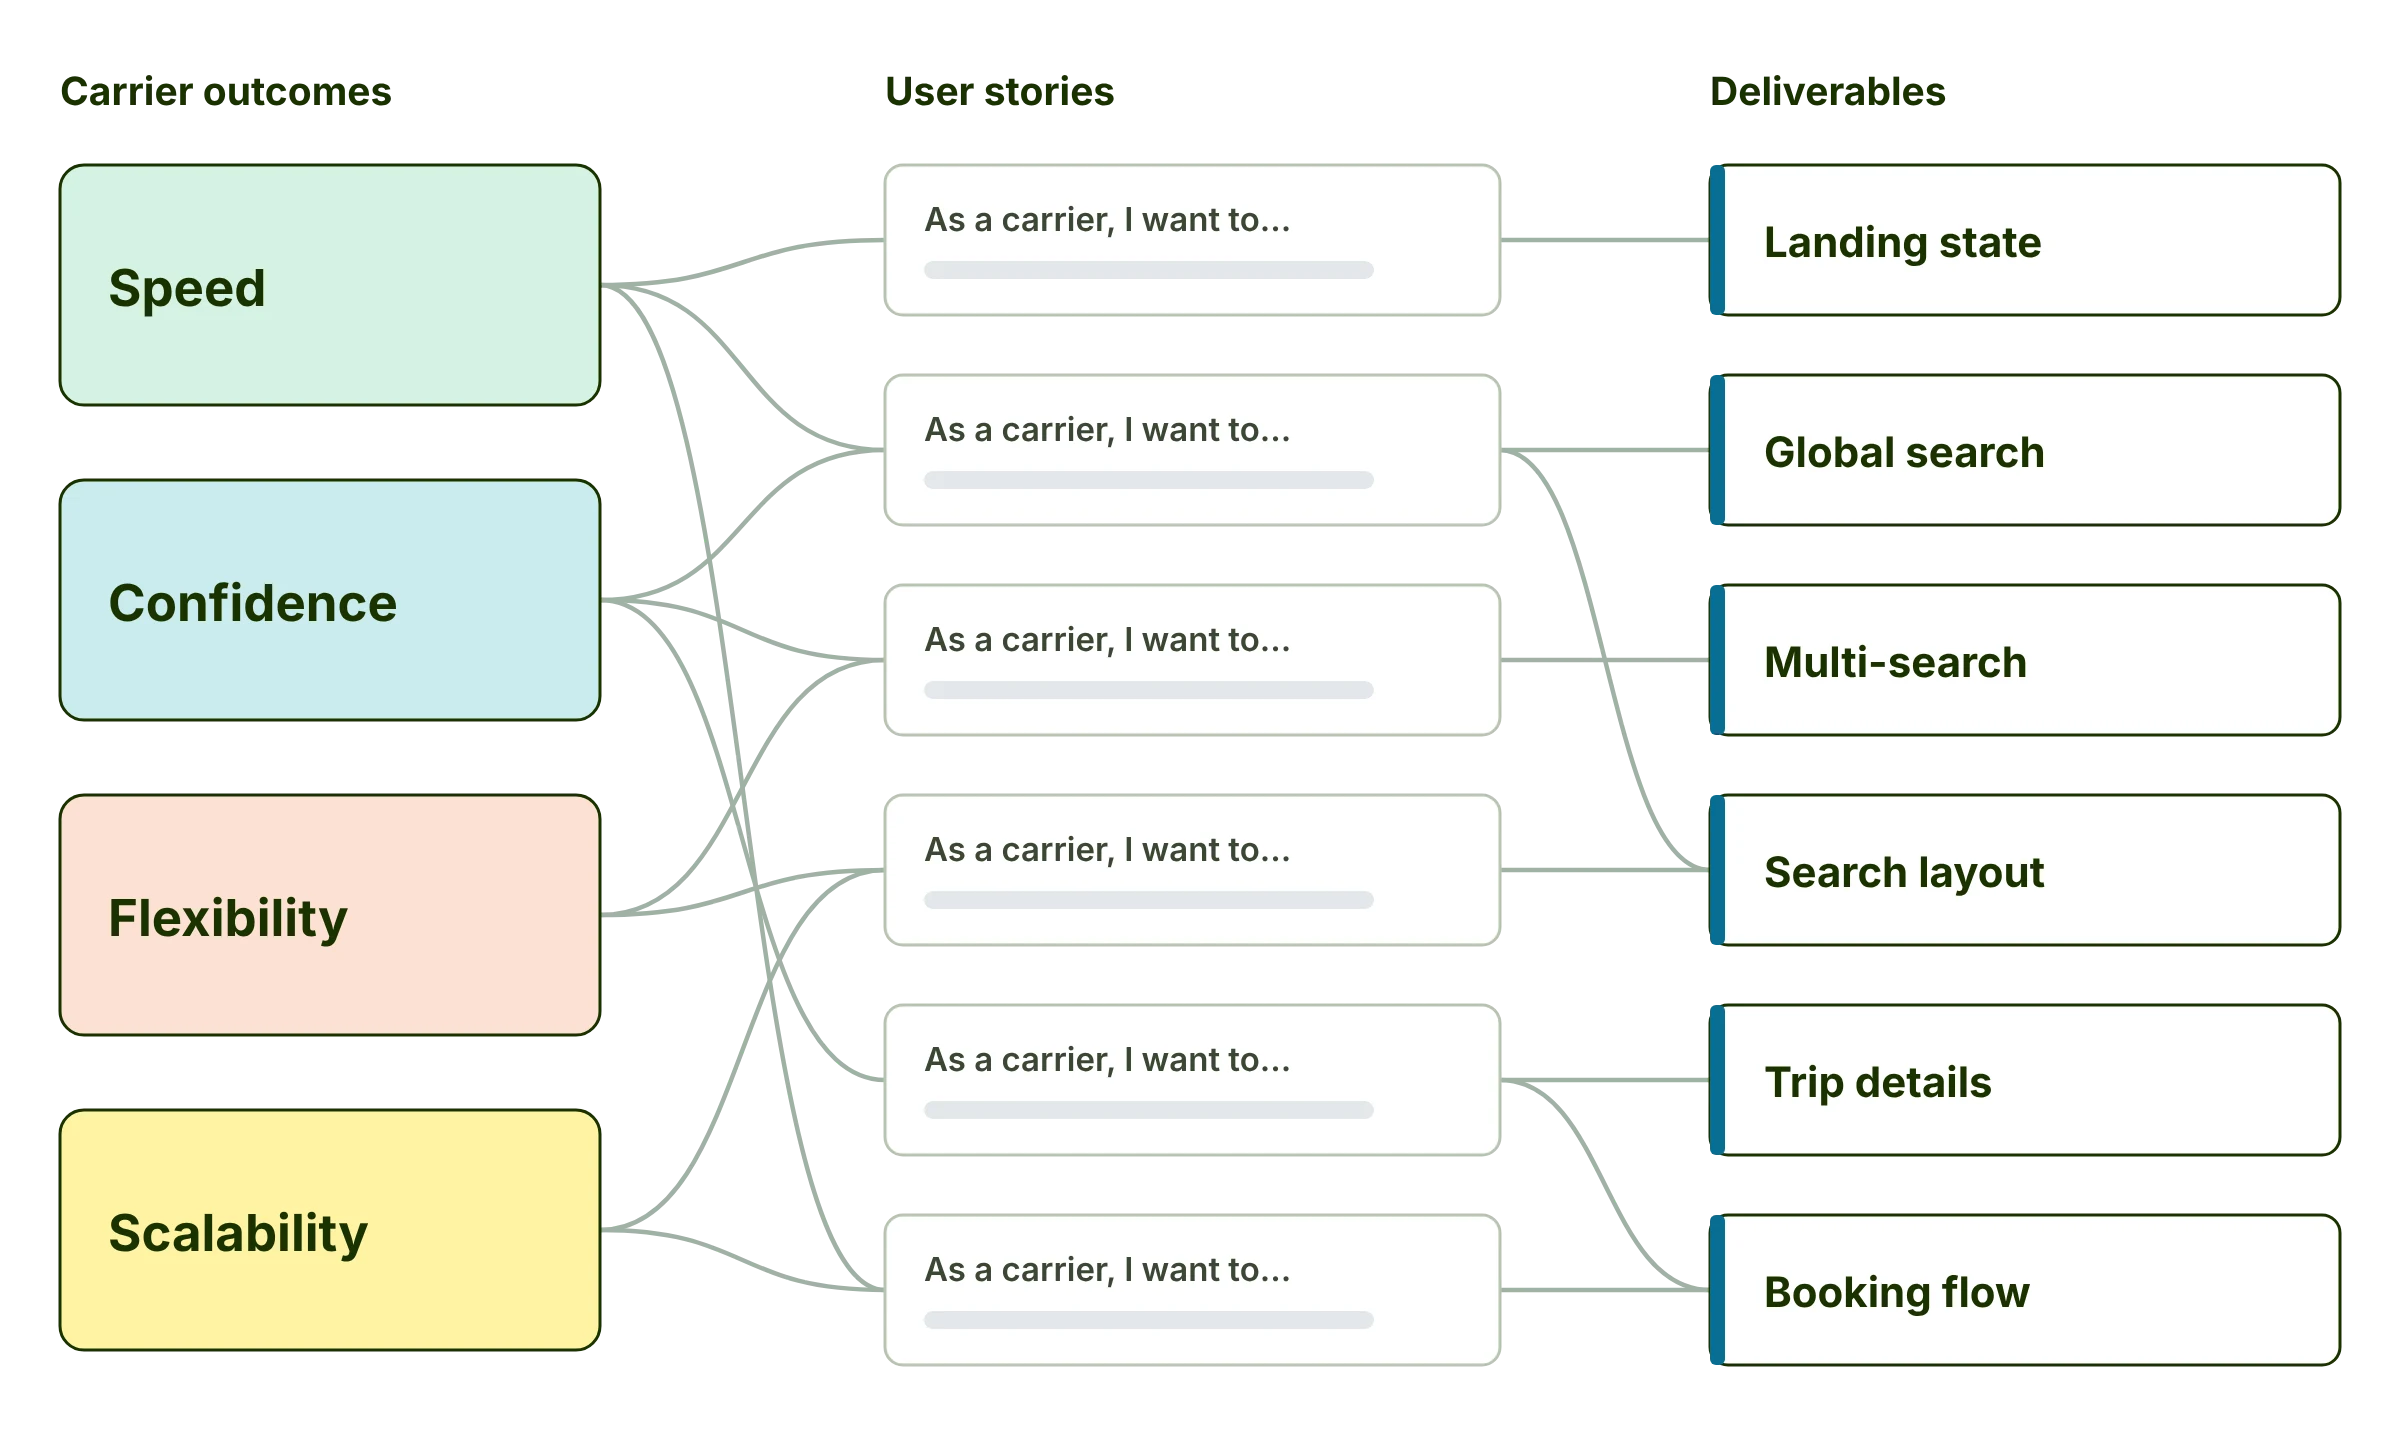
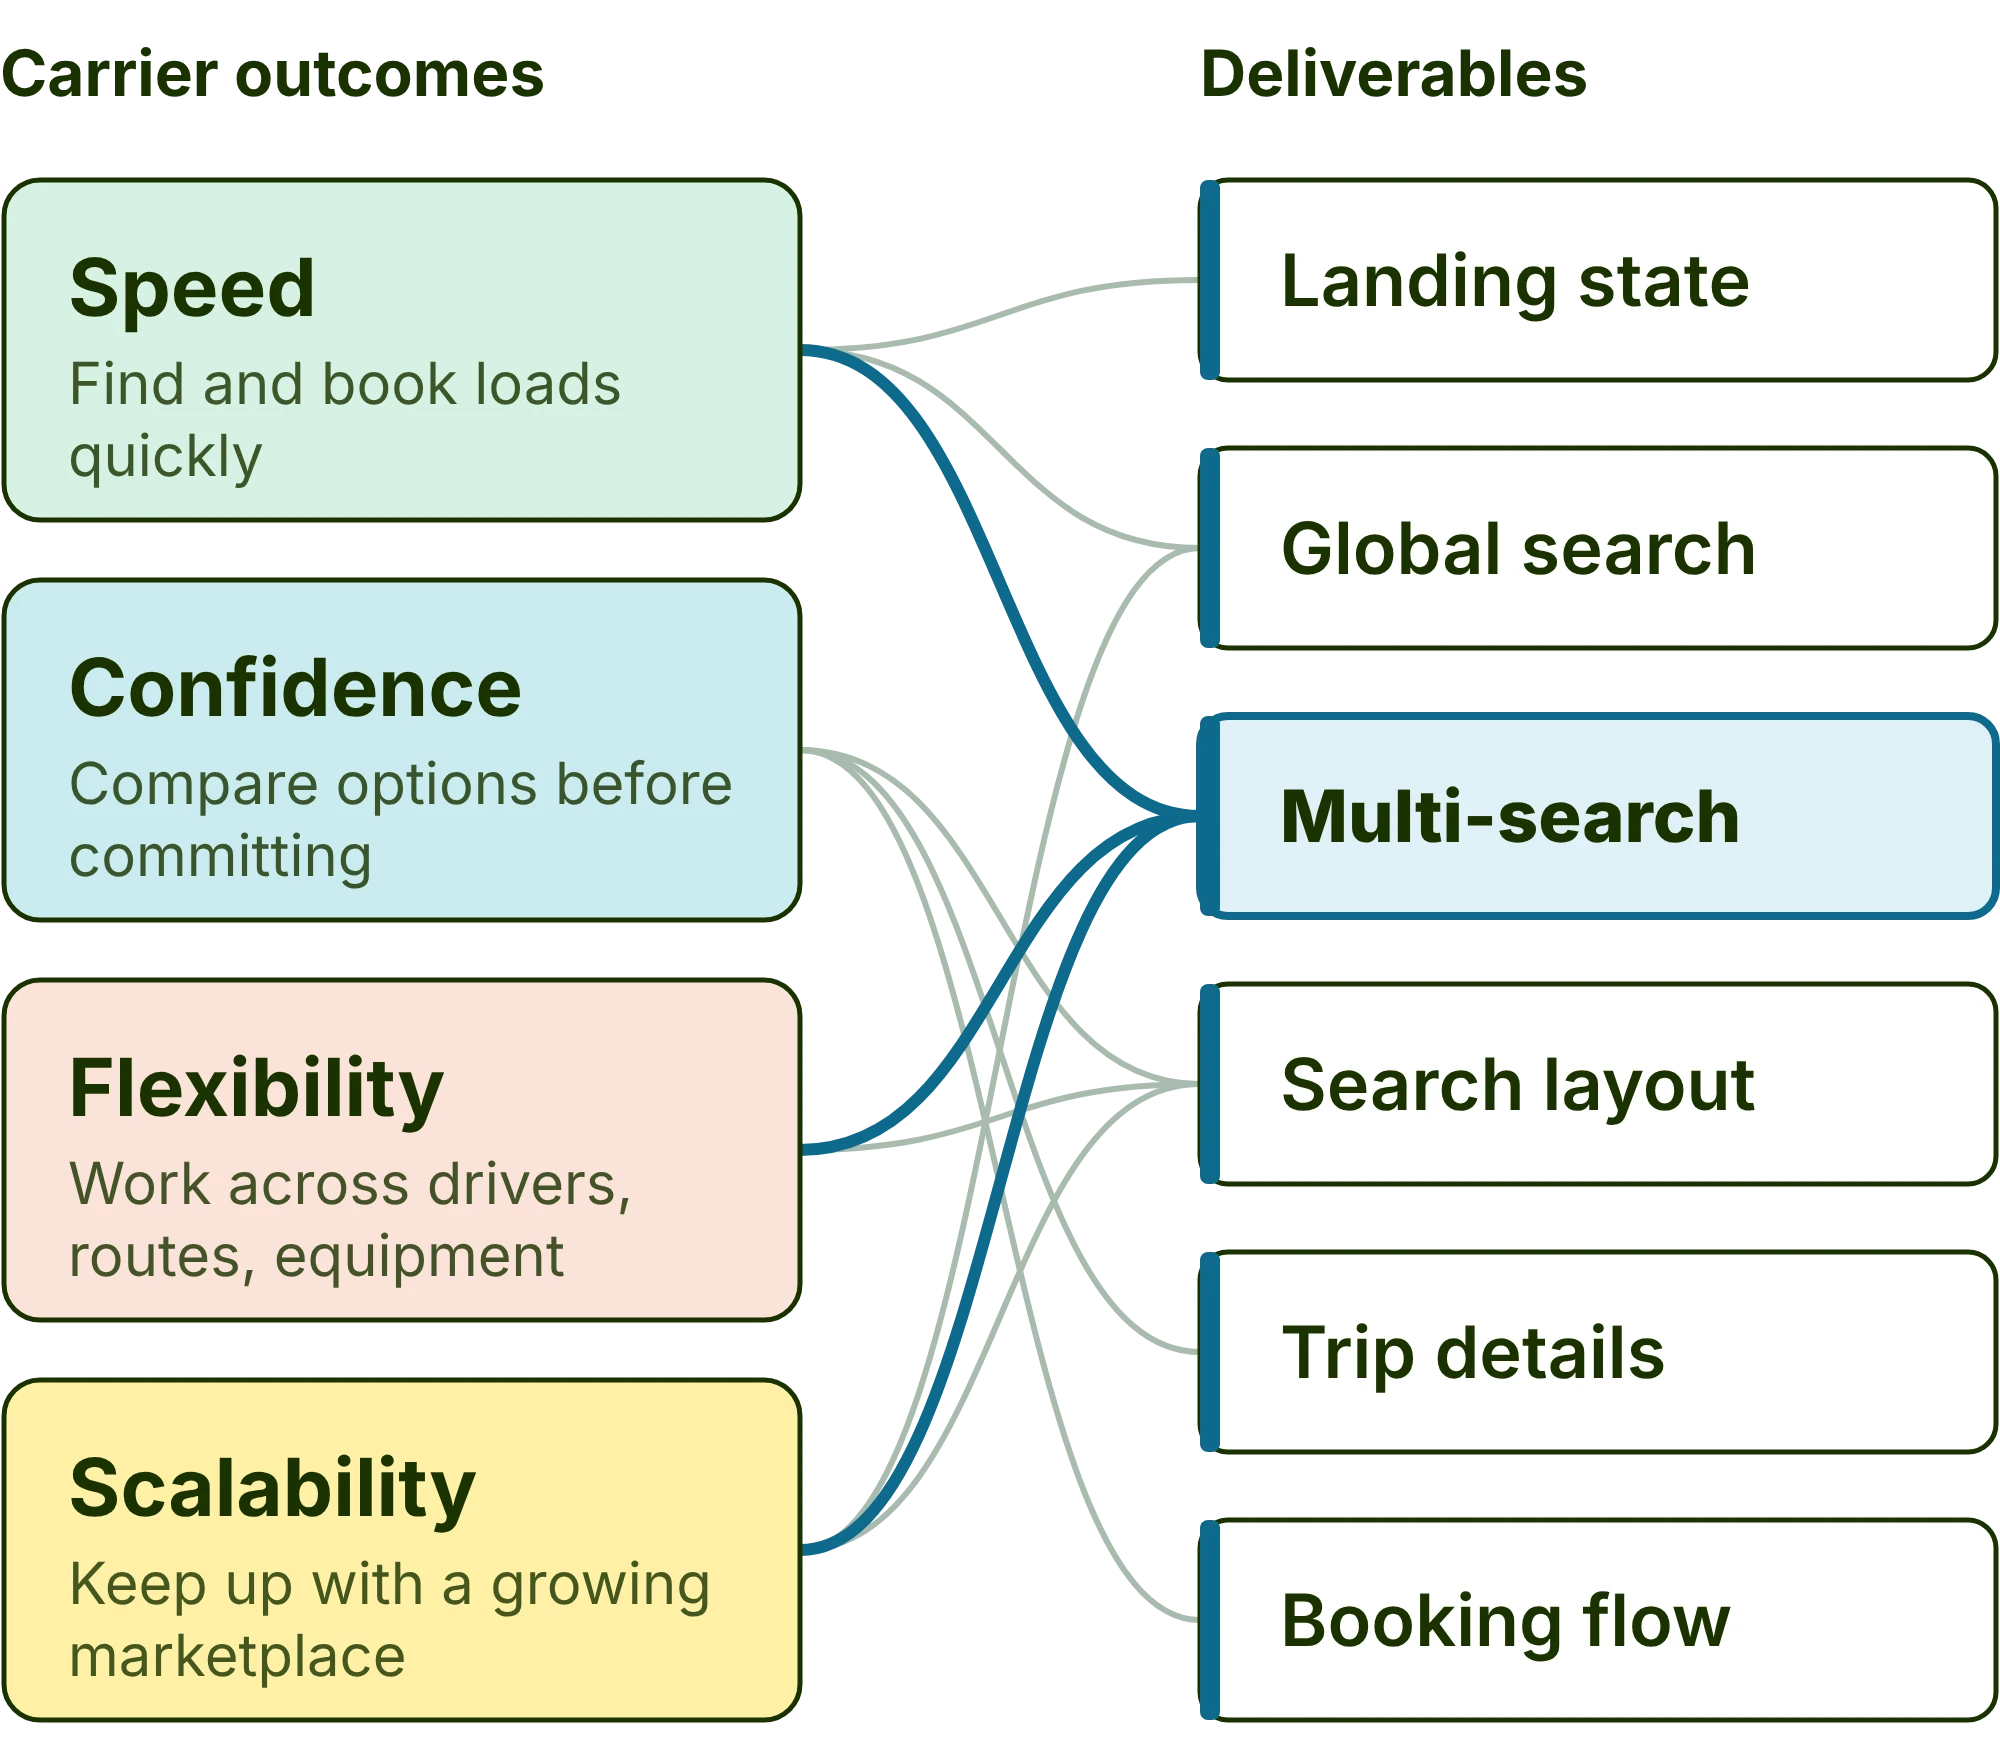
Load Board: tell the impact-mapping facilitation story in 3.3 and redraw the impact map
Adds why the requirements hid the gap, the cross-functional impact-mapping
session, what the team aligned on, and how it set the direction for
multi-search. The story count is behind the data-private lock. The map is
redrawn larger for phones with outcome descriptions and multi-search
highlighted, without the placeholder story column.

Claude-Session: https://claude.ai/code/session_01NFPmg4FDvEqv7TXXgX5Mjx

diff --git a/src/content/projects/01-amazon-relay-load-board.md b/src/content/projects/01-amazon-relay-load-board.md
@@ -123,18 +123,24 @@ That pattern repeated throughout the work: explore far enough to understand the 
 
 <p class="case-insight">The old experience was making one search model carry too much complexity.</p>
 
-The team could keep adding controls, or we could create a model that had somewhere for future complexity to go.
-
 Carriers needed a small set of criteria to define viable work, but the growing product had accumulated 22 parameters. They needed to monitor more than one work context, but the product treated search as one temporary state. They needed richer load information, but navigating away from results interrupted comparison. And they needed booking speed without the risk of making costly mistakes.
 
-The design problem was therefore not one feature. It was how the landing experience, search, filtering, multi-search, details, and booking flow should work together as one coherent system.
+**The requirements couldn’t show that gap on their own.** Interviews, saved searches, and product data all showed carriers managing several searches at once, across locations, equipment types, and drivers. But the requirements were organized feature by feature, and each user story made sense in isolation.
+
+I facilitated an impact-mapping session to make the gap visible. With the PMs, engineers, and business partners, we connected <span data-private>22</span> user stories to the carrier outcomes they served: speed, confidence, flexibility, and scalability. Taken one at a time, the stories asked for features. Taken together, they told a different story: the gap was not a missing search control, it was the assumption that carriers worked within a single search context.
+
+That shared view moved the conversation from individual features to how the landing experience, search, filtering, multi-search, details, and booking should work together as one system, and it set the direction for <a href="#42-productize-the-workaround-multi-search">multi-search</a>.
+
+The team could keep adding controls, or we could create a model that had somewhere for future complexity to go.
 
 <p class="callout">How might we support increasing marketplace complexity without making the experience increasingly complicated?</p>
 
-<figure class="visual visual--wide">
-<img class="is-mockup" src="/images/work/amazon-relay-load-board/impact-map.webp" alt="Impact map with three columns: carrier outcomes (speed, confidence, flexibility, scalability), carrier user stories, and deliverables (landing state, global search, multi-search, search layout, trip details, booking flow)." loading="lazy" />
-<figcaption>The impact map, simplified: carrier outcomes connected through user stories to six deliverables, from the landing state to the booking flow.</figcaption>
+<figure class="visual visual--inline">
+<img class="is-mockup" src="/images/work/amazon-relay-load-board/impact-map.webp" width="2000" height="1760" alt="Simplified impact map. Four carrier outcomes on the left: speed, find and book loads quickly; confidence, compare options before committing; flexibility, work across drivers, routes and equipment; scalability, keep up with a growing marketplace. Lines connect them to six deliverables on the right: landing state, global search, multi-search, search layout, trip details and booking flow. Multi-search is highlighted, with lines from speed, flexibility and scalability." loading="lazy" />
+<figcaption>The impact map, simplified. Each user story made sense on its own; connected to carrier outcomes, they showed carriers working across several searches at once, which pointed to multi-search.</figcaption>
 </figure>
+
+<p class="case-methods"><span class="label">Methods</span> impact mapping · cross-functional workshop facilitation · synthesis of research, saved searches, and product data</p>
 
 #### 04 / Making it work
 
